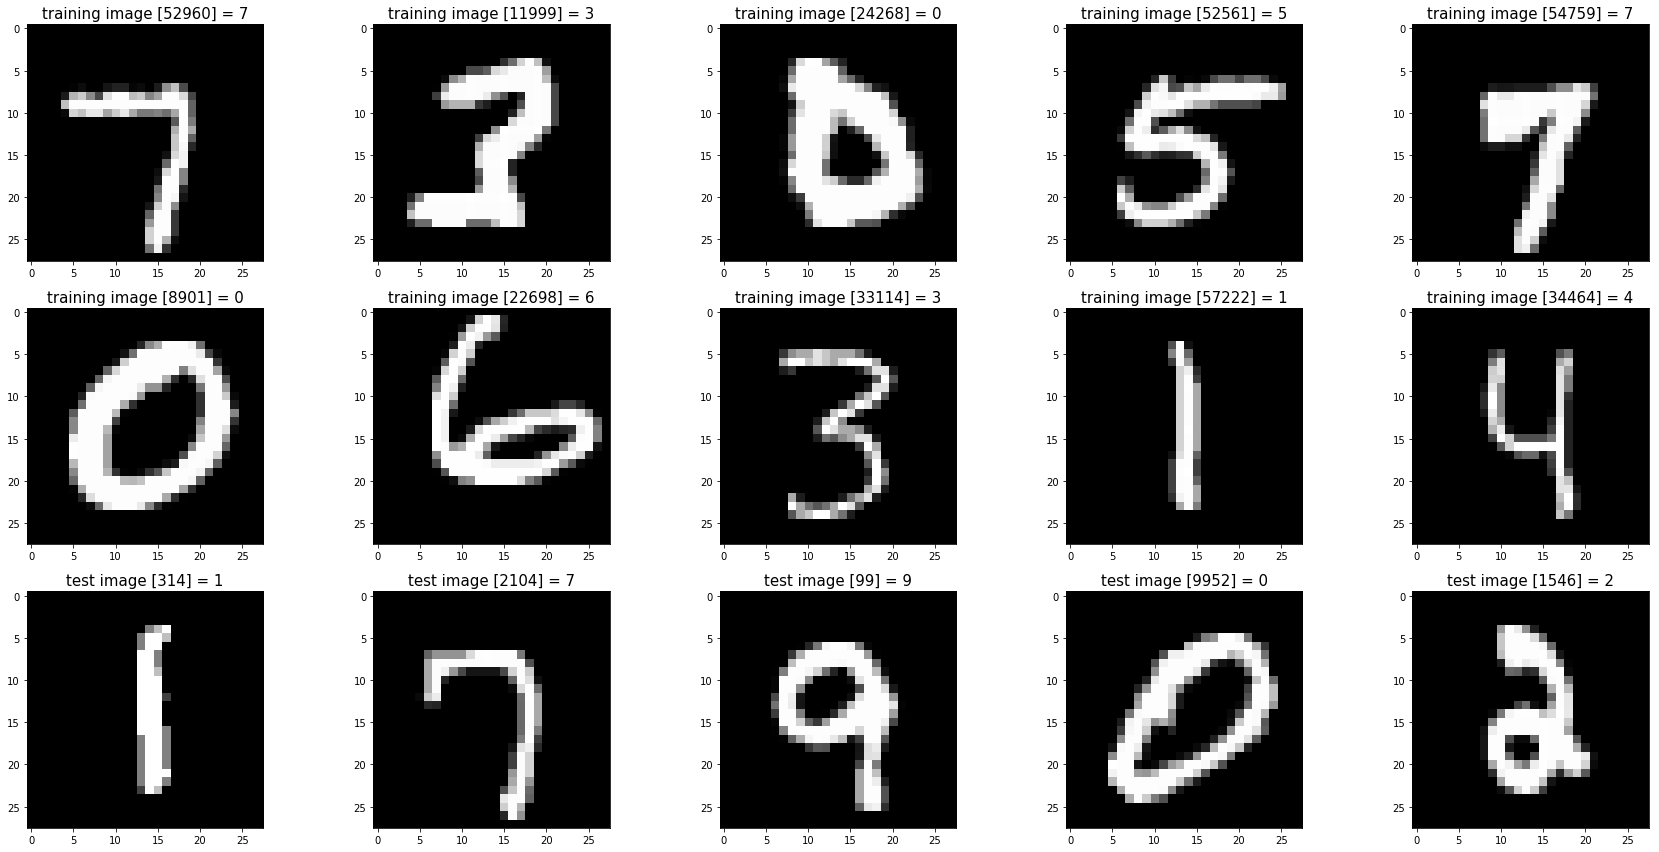
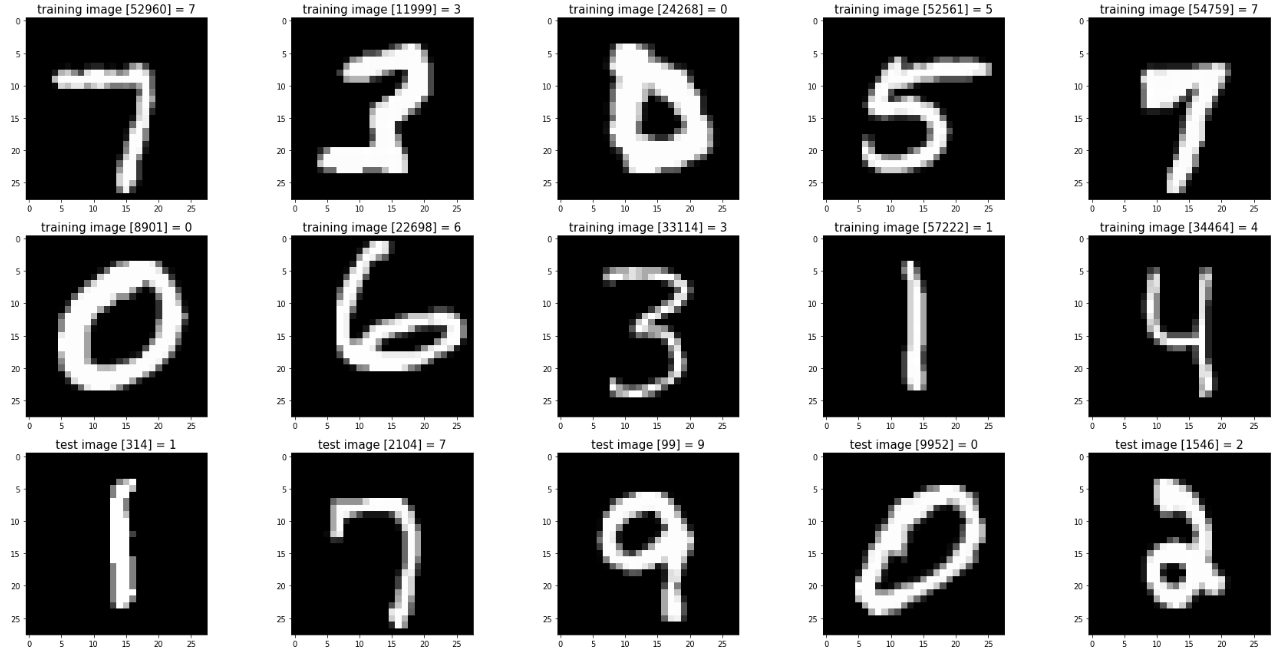
image change

diff --git a/README.md b/README.md
@@ -3,7 +3,7 @@
 
 ##  Activité 1: Approche symbolique et approche connexionniste
 
-Cette activité aborde une question fondamentale en intelligence artificielle : comment un ordinateur peut-il reconnaître un chiffre écrit ?
+Cette activité aborde une question fondamentale en intelligence artificielle : **comment un ordinateur peut-il reconnaître un chiffre écrit** ?
 
 Pendant longtemps, les informaticiens ont tenté de répondre à cette question en écrivant des règles explicites — c'est ce qu'on appelle l'**approche symbolique**, ou les systèmes experts. Cette approche a connu de grands succès dans certains domaines, mais s'est heurtée à des limites profondes dès qu'il s'agissait de traiter des données issues du monde réel, comme l'écriture manuscrite.
 